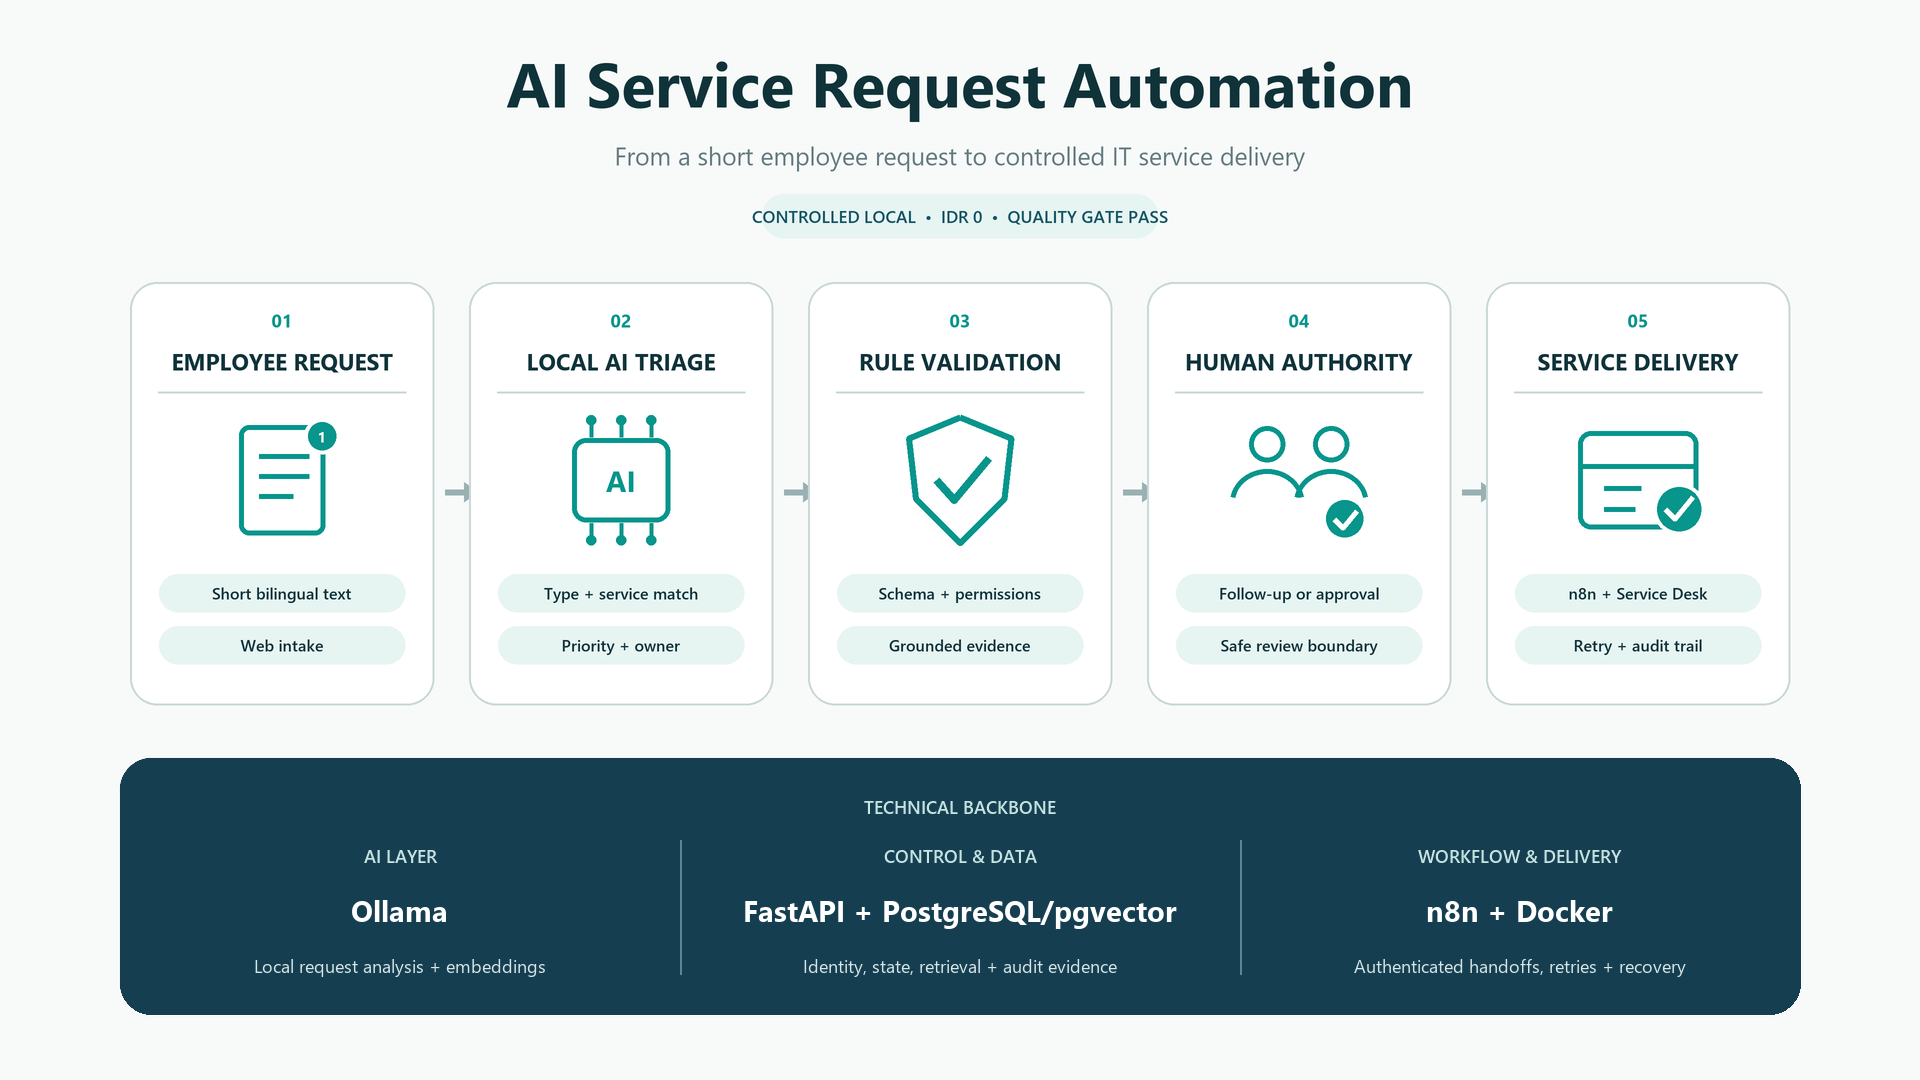
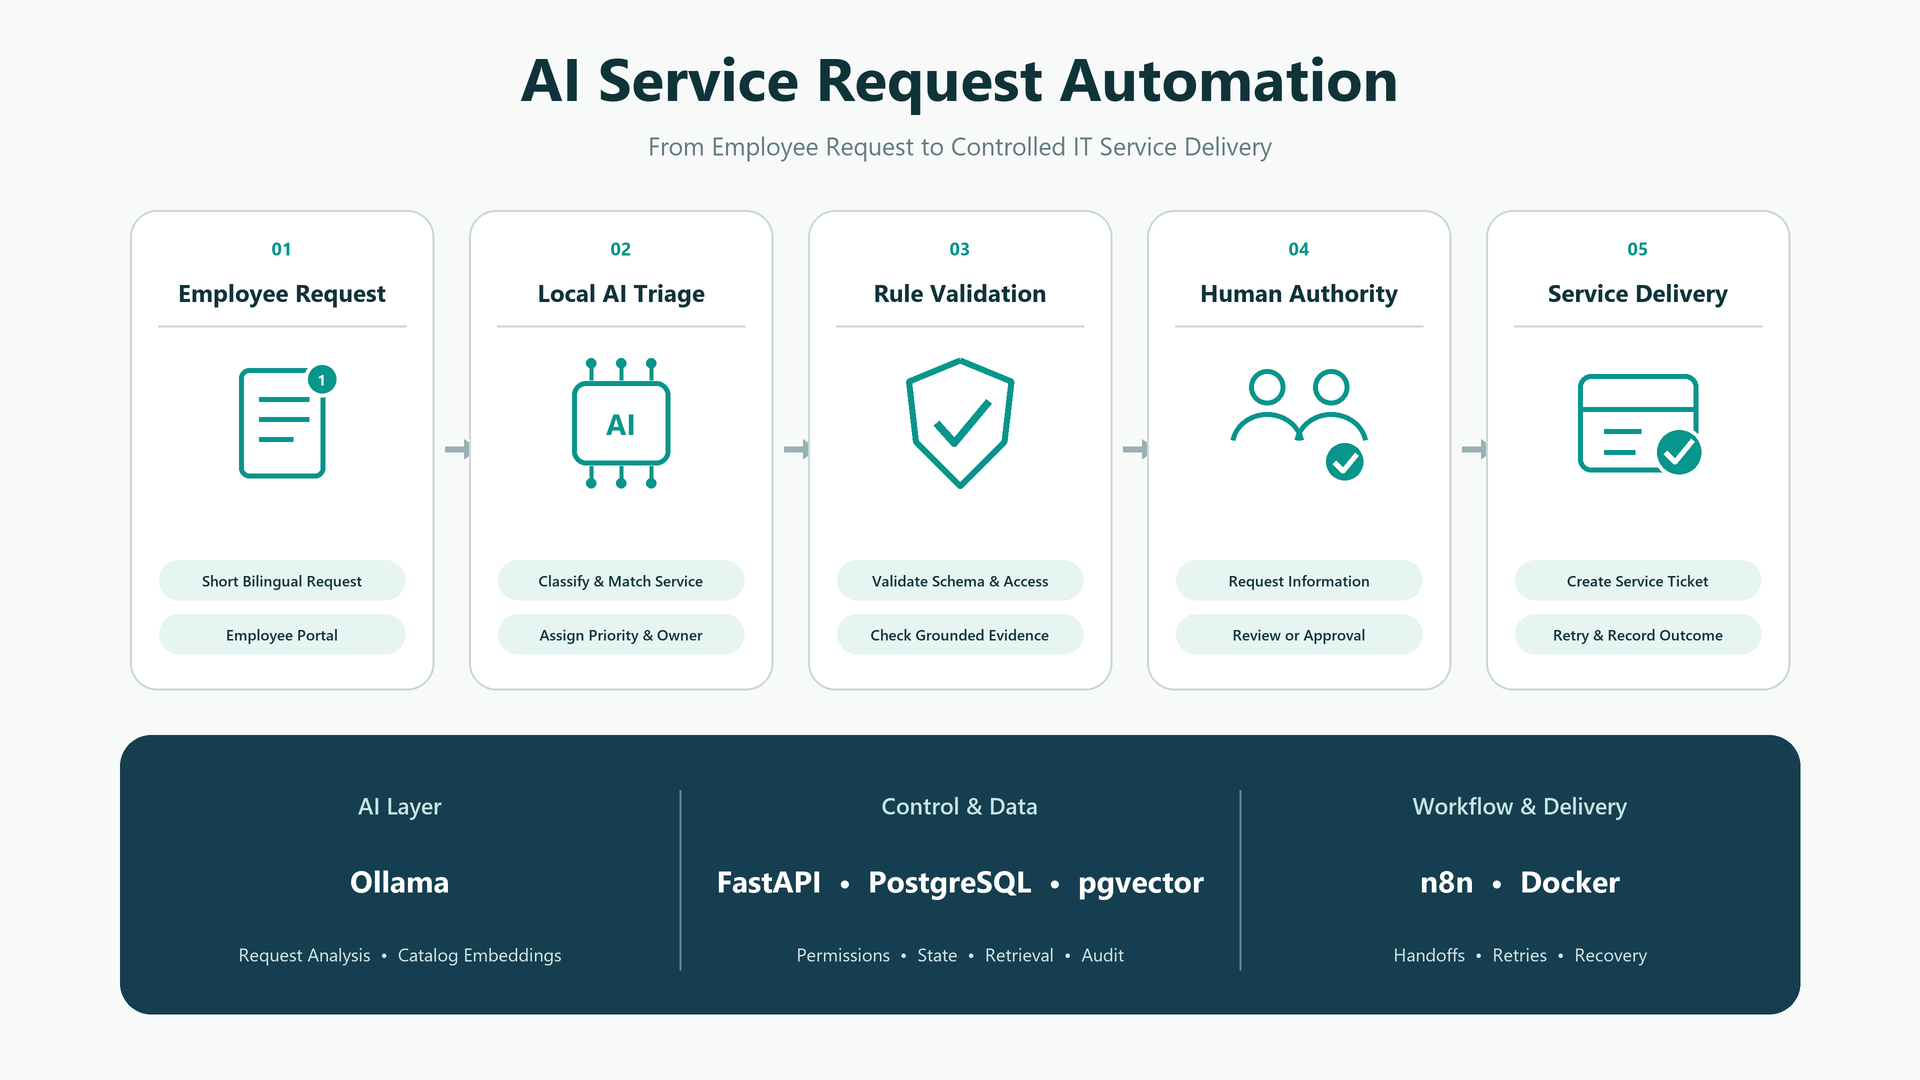
style: focus automation visual on workflow

diff --git a/index.html b/index.html
@@ -77,7 +77,7 @@
     <script>
       (() => {
         const releaseParameter = "release";
-        const embeddedRelease = "20260823-02";
+        const embeddedRelease = "20260823-03";
         const loadedRelease = new URLSearchParams(window.location.search).get(releaseParameter);
         const releaseMarkerUrl = new URL("site-version.json", window.location.href);
         releaseMarkerUrl.searchParams.set("check", Date.now().toString());
@@ -306,8 +306,8 @@
               </div>
               <div class="project-result-column">
                 <figure class="project-visual">
-                  <a class="project-image-link" href="assets/projects/ai-service-request-automation.png?v=20260823b" target="_blank" rel="noopener noreferrer" aria-label="Open the AI Service Request Automation lifecycle and architecture visual at full size">
-                    <img src="assets/projects/ai-service-request-automation.png?v=20260823b" alt="AI Service Request Automation flow from a short employee request through local AI triage, rule validation, human authority, and Service Desk delivery, with a technical backbone mapping Ollama, FastAPI, PostgreSQL with pgvector, n8n, and Docker to their responsibilities" width="1920" height="1080" loading="lazy" decoding="async">
+                  <a class="project-image-link" href="assets/projects/ai-service-request-automation.png?v=20260823c" target="_blank" rel="noopener noreferrer" aria-label="Open the AI Service Request Automation workflow visual at full size">
+                    <img src="assets/projects/ai-service-request-automation.png?v=20260823c" alt="AI Service Request Automation workflow from employee request through local AI triage, rule validation, human authority, and Service Desk delivery, supported by Ollama, FastAPI, PostgreSQL with pgvector, n8n, and Docker" width="1920" height="1080" loading="lazy" decoding="async">
                   </a>
                   <figcaption>Short employee messages become catalog-matched service work while deterministic rules and accountable people retain authority.</figcaption>
                 </figure>

diff --git a/PROJECT.md b/PROJECT.md
@@ -103,12 +103,12 @@ This safeguard removes the normal post-deployment cache wait after it has reache
 
 **Release-freshness safeguard status:** Published at portfolio commit `3d4fd4a17167ff96a9552dcb03af3809afeef916` with release `20260816-01`; Pages run `31955310151` completed successfully. The live release marker and versioned HTML expose the approved freshness check.
 
-**AI Service Request Automation publication status:** Portfolio commit
-`32a87a08a9447851e0533f765dbc1d8192282bb5` and Pages run `32632656702`
-published release `20260823-02`. The live visual preserves the illustrated
-five-stage lifecycle, removes metrics duplicated by the card below, and maps
-the local AI, control/data, and workflow/delivery responsibilities. Desktop,
-390-pixel mobile, asset, release-marker, and browser warning/error checks pass.
+**AI Service Request Automation publication status:** A focused workflow-visual
+revision is prepared locally for release `20260823-03`. It removes the cost and
+quality badges plus the redundant `Technical Backbone` heading, preserves the
+five illustrated workflow stages, and normalizes capitalization and typography
+across the three supporting system layers. Publication and live Pages
+verification are pending.
 
 ## 2. Evidence required for each role family
 
@@ -279,7 +279,7 @@ Copy this block for each audited project. Do not remove required fields.
 - **Limitations:** Evidence uses fictional data, installed local models, and controlled local services. The system retains deterministic and human authority around probabilistic output. No external deployment, real-user adoption, production throughput, employee hours saved, uptime change, financial return, or other live business impact has been demonstrated.
 - **Approved Project Output wording:** Delivered a reproducible Employee Service Desk and authorized Service Operations workspace that turns short IT messages into traceable catalog work, asks at most 1 focused follow-up, and preserves approval, escalation, resolution, retry, and recovery evidence.
 - **Approved Evidence & Scope wording:** The frozen final gate used 30 untouched bilingual semantic cases and 10 deterministic workflow controls. 90.0% progressed without service-agent triage review; all services and models cleaned up, and hosted or paid AI calls were 0. Results are controlled local evidence with fictional data, not production or measured business impact.
-- **Portfolio status:** Published at portfolio commit `32a87a08a9447851e0533f765dbc1d8192282bb5`; Pages run `32632656702` completed successfully. Live release `20260823-02` removes duplicated image metrics while preserving the illustrated lifecycle and adding the technical-responsibility map. Desktop and 390-pixel mobile verification found no horizontal overflow, missing asset, stale image, or browser warning/error.
+- **Portfolio status:** A focused workflow-visual revision is prepared locally for release `20260823-03`; it removes the cost and quality badges plus the redundant architecture heading while preserving the illustrated workflow and normalizing its typography. Publication and Pages verification are pending.
 
 ### dwdm-optical-sensor-monitoring
 
@@ -358,7 +358,7 @@ These entries are audit directions only. They are not completed registry records
 | Project candidate | Workspace routing | Provisional direction | Registry status |
 | --- | --- | --- | --- |
 | Retail Sales Forecasting | `C:/Users/Thufail/Documents/Portfolio/Independent Projects/AI Engineer/`; follow its `AGENTS.md` and project source of truth | The live card shows the verified 44/44 core contract evidence | Published |
-| AI Service Request Automation | `C:/Users/Thufail/Documents/Portfolio/Independent Projects/AI Automation/`; follow its `AGENTS.md` and project source of truth | The live card uses the non-redundant lifecycle and technical-backbone visual without changing accepted evidence | Published |
+| AI Service Request Automation | `C:/Users/Thufail/Documents/Portfolio/Independent Projects/AI Automation/`; follow its `AGENTS.md` and project source of truth | Publish the focused workflow visual without cost, quality, duplicate metric, or redundant architecture labels | Approved; publication pending |
 | DWDM Monitoring | `C:/Users/Thufail/Documents/Portfolio/Professional Projects/Lintasarta DWDM Monitoring/` | Context verified; complete the quantitative evidence audit before revising technical claims | Audit in progress |
 | Academic project claims | Use each project-specific workspace record above | Context verified; metrics and live wording still require project-by-project evidence audits | Audit in progress |
 
